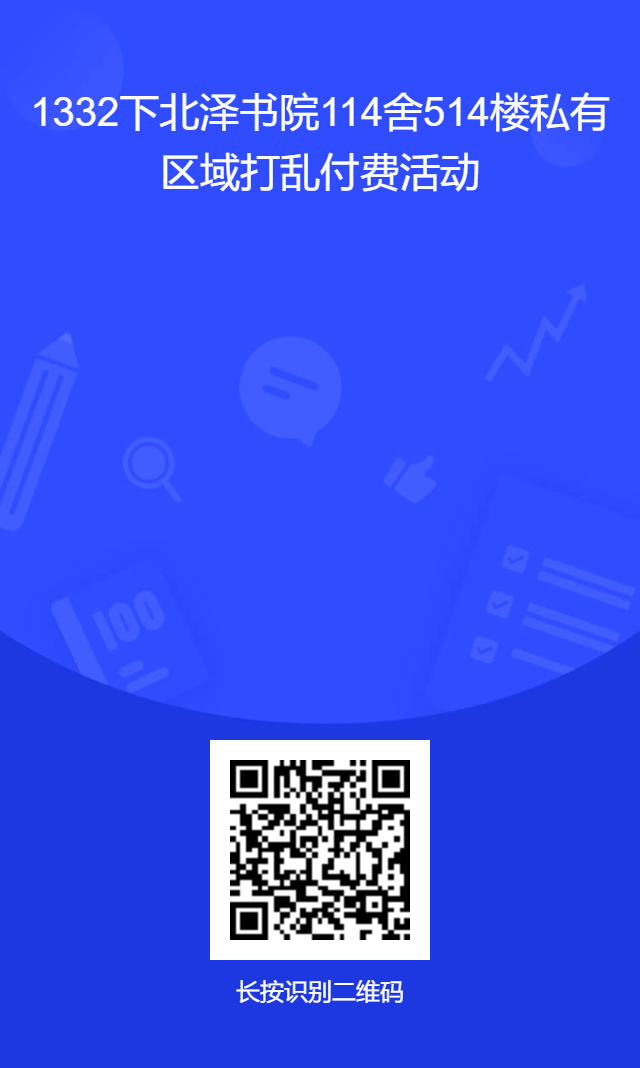
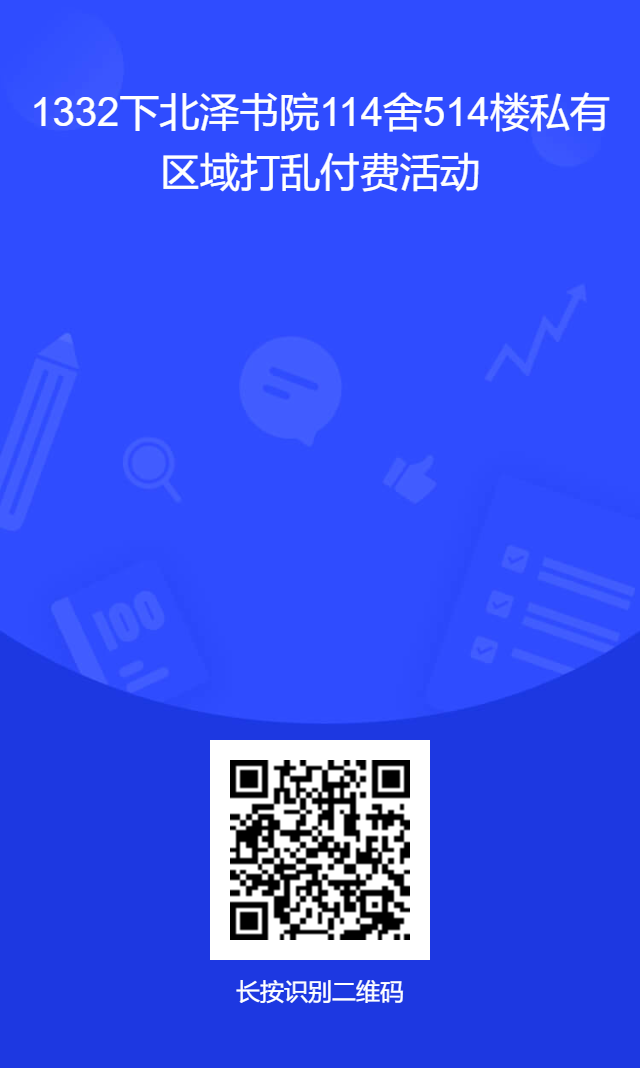
update README

Changed region(s): [[0.3438, 0.7107, 0.6562, 0.8961]]

diff --git a/README.md b/README.md
@@ -77,6 +77,6 @@ python main.py
 
 ## 测试
 
-https://www.wjx.cn/vm/rXis19K.aspx
+https://www.wjx.cn/vm/rXQdKvE.aspx
 
 ![wjxpr](wjxqr.png)
